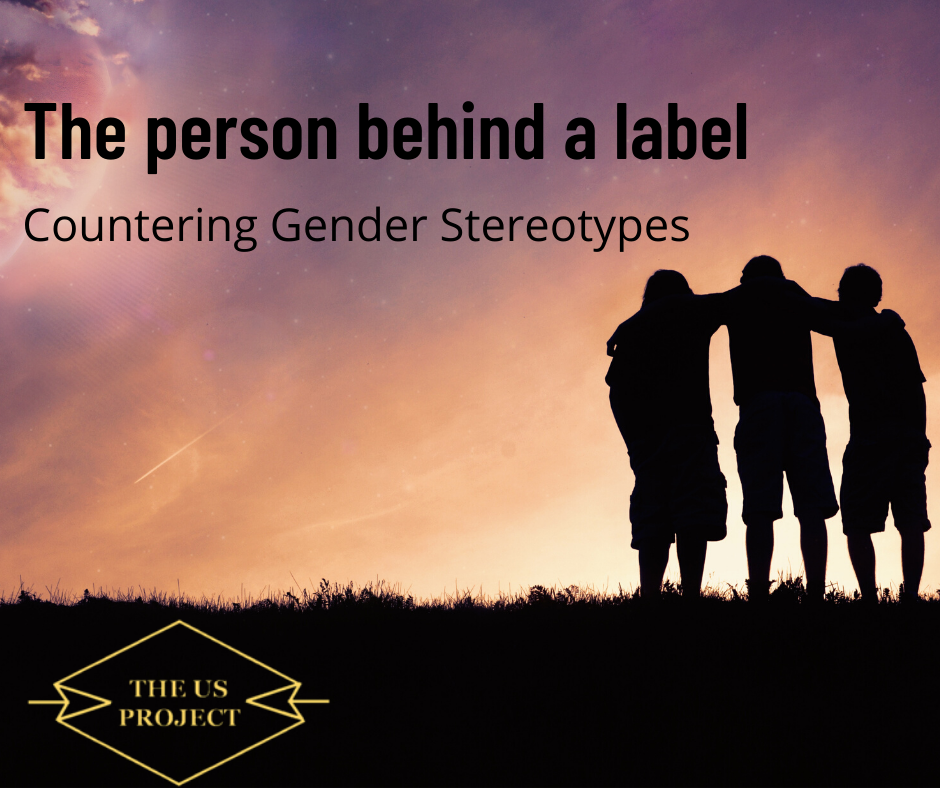
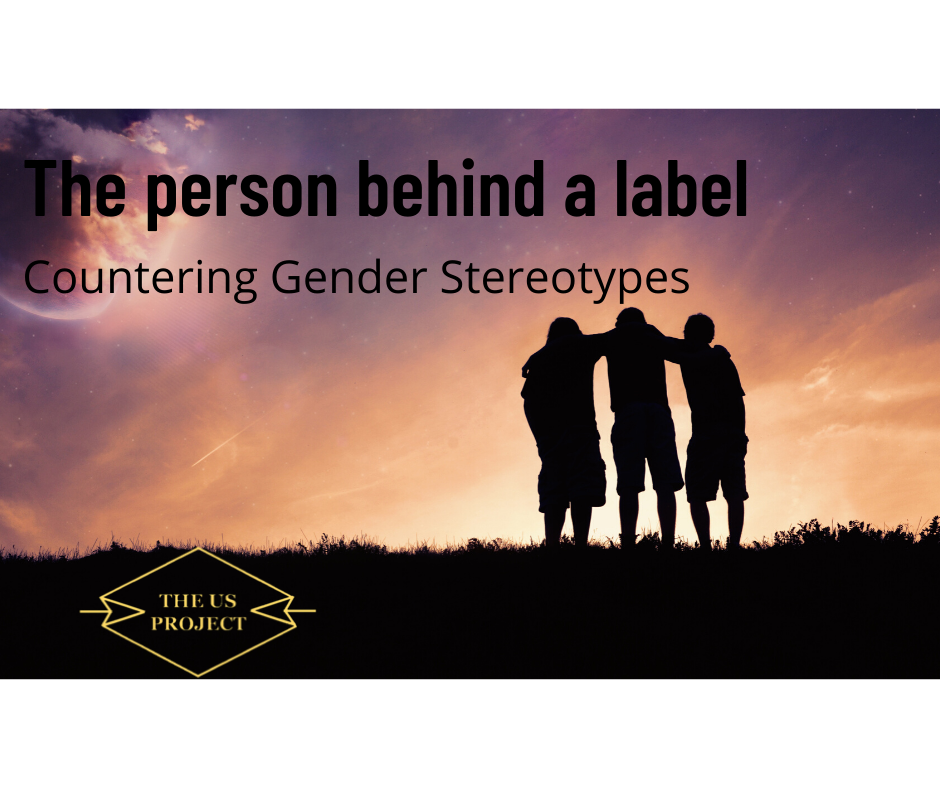
changed shareimage

diff --git a/index.html b/index.html
@@ -8,7 +8,7 @@
   <meta property="og:title" content="The Us Project | Challenge Gender Stereotypes" />
   <meta property="og:description" content="Educational project to fight stereotypes associated with sexual orientation and gender identity. Explore the person behind a label" />
   <meta property="og:url" content="https://thegenderproject.github.io/" />
-  <meta property="og:image" content="share1.png"
+  <meta property="og:image" content="share.png"
 
   <!-- CSS  -->
   <link href="https://fonts.googleapis.com/icon?family=Material+Icons" rel="stylesheet">
